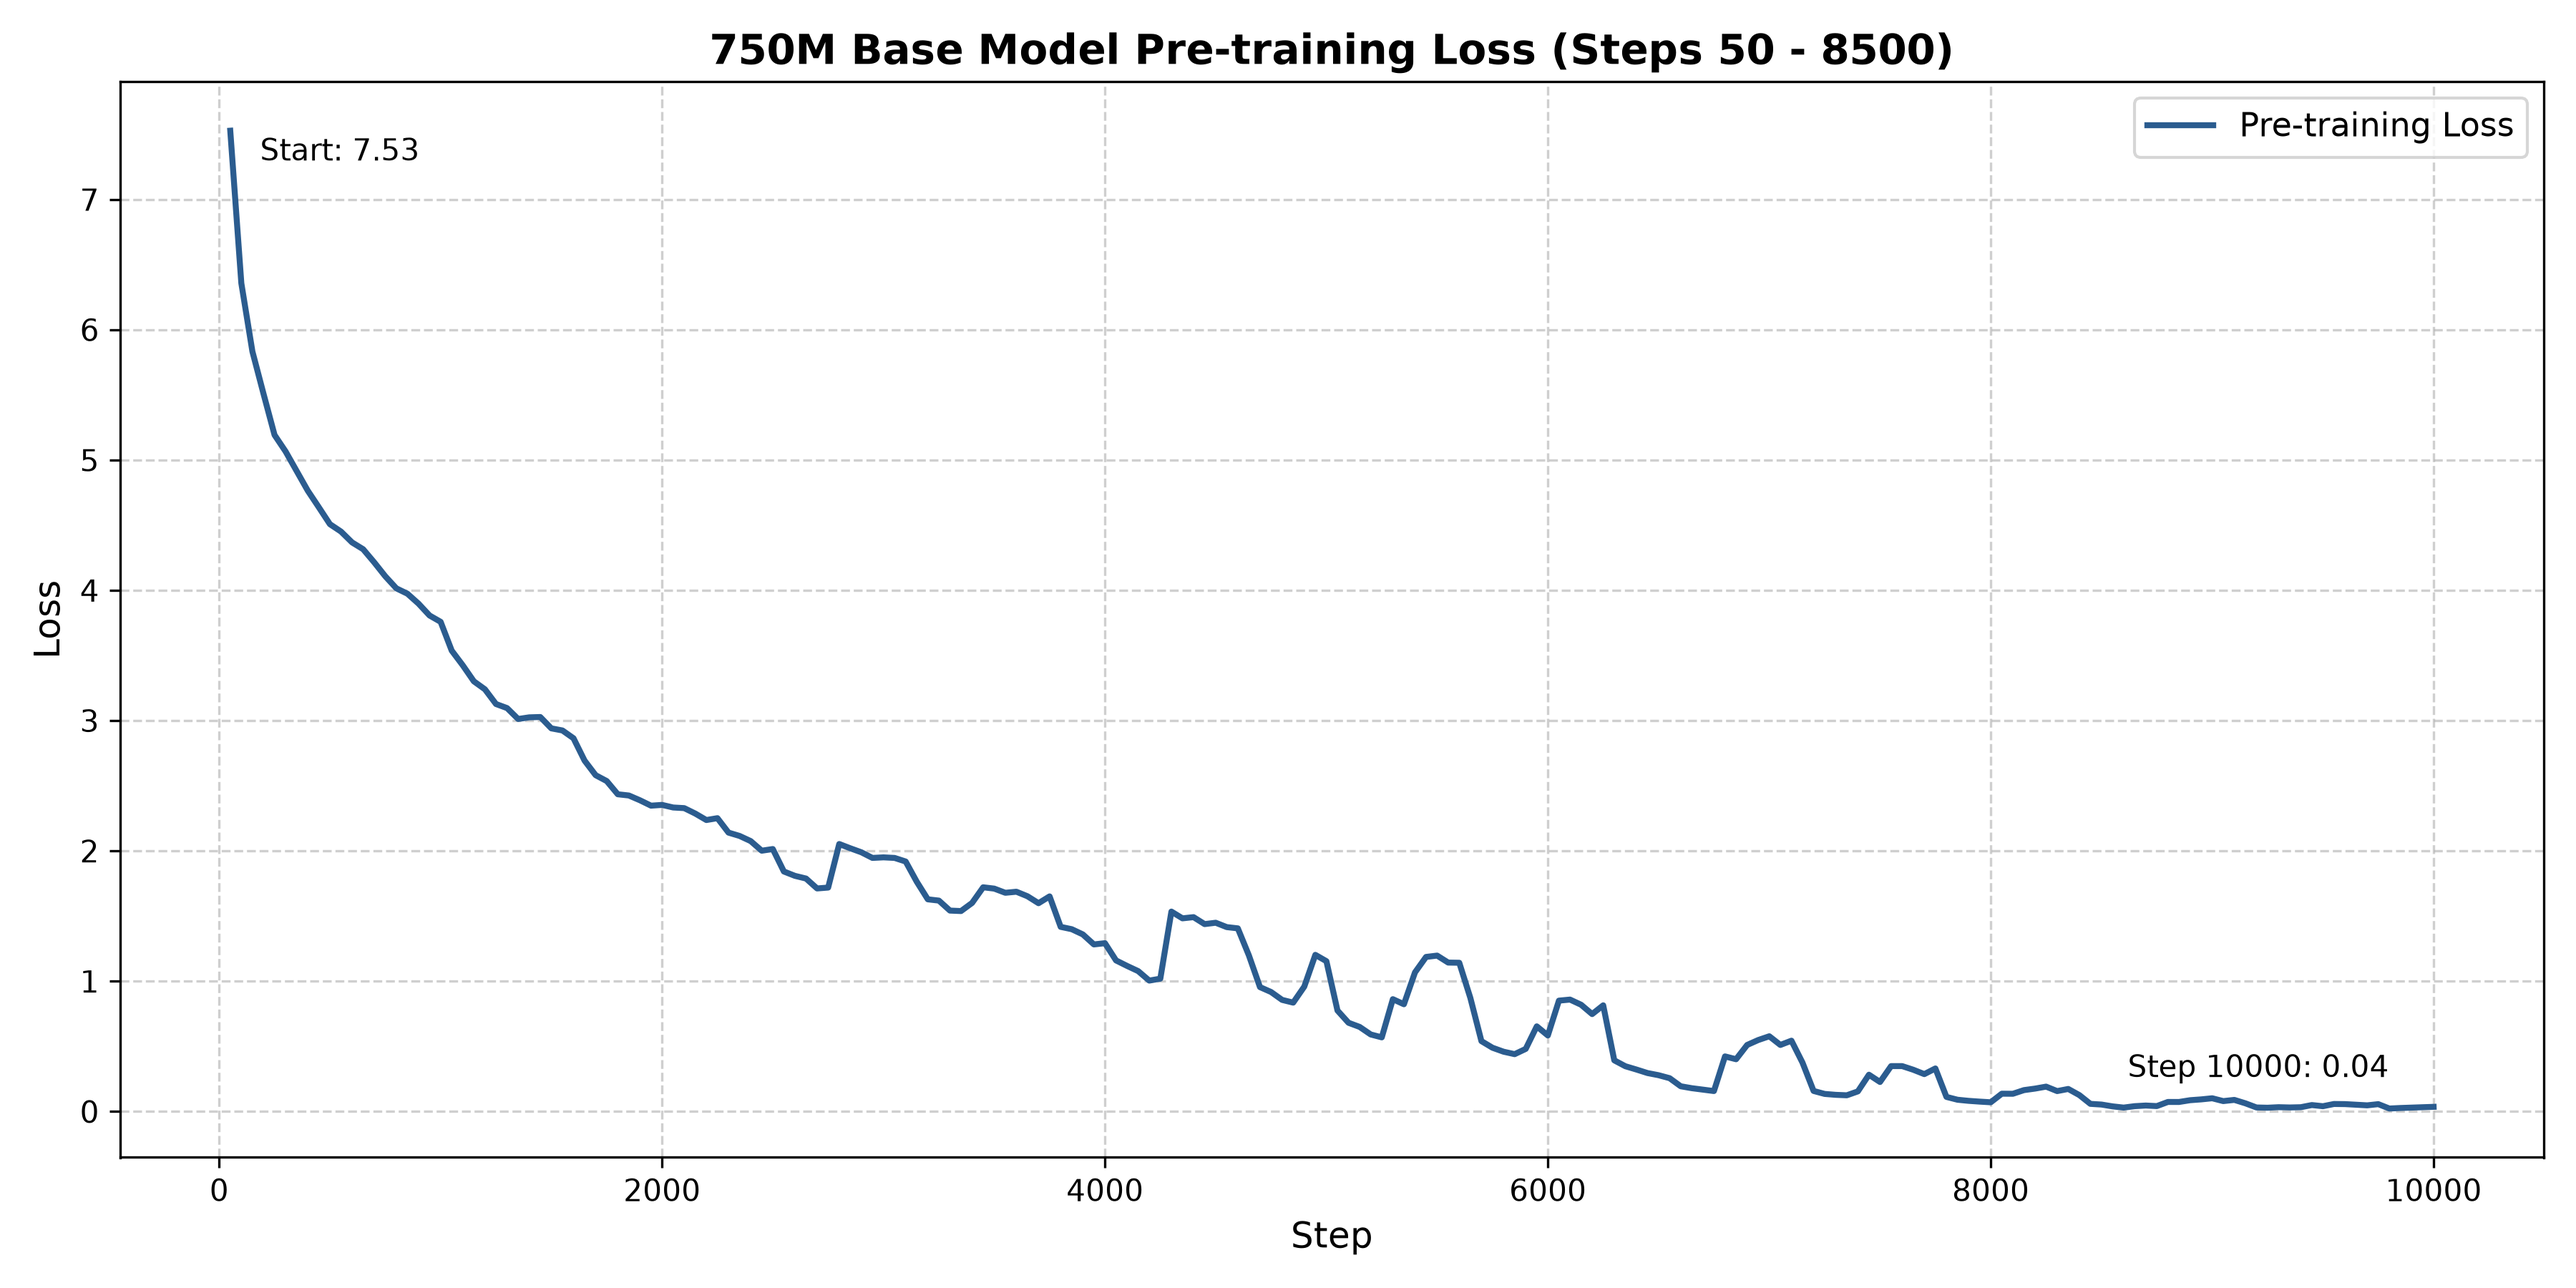
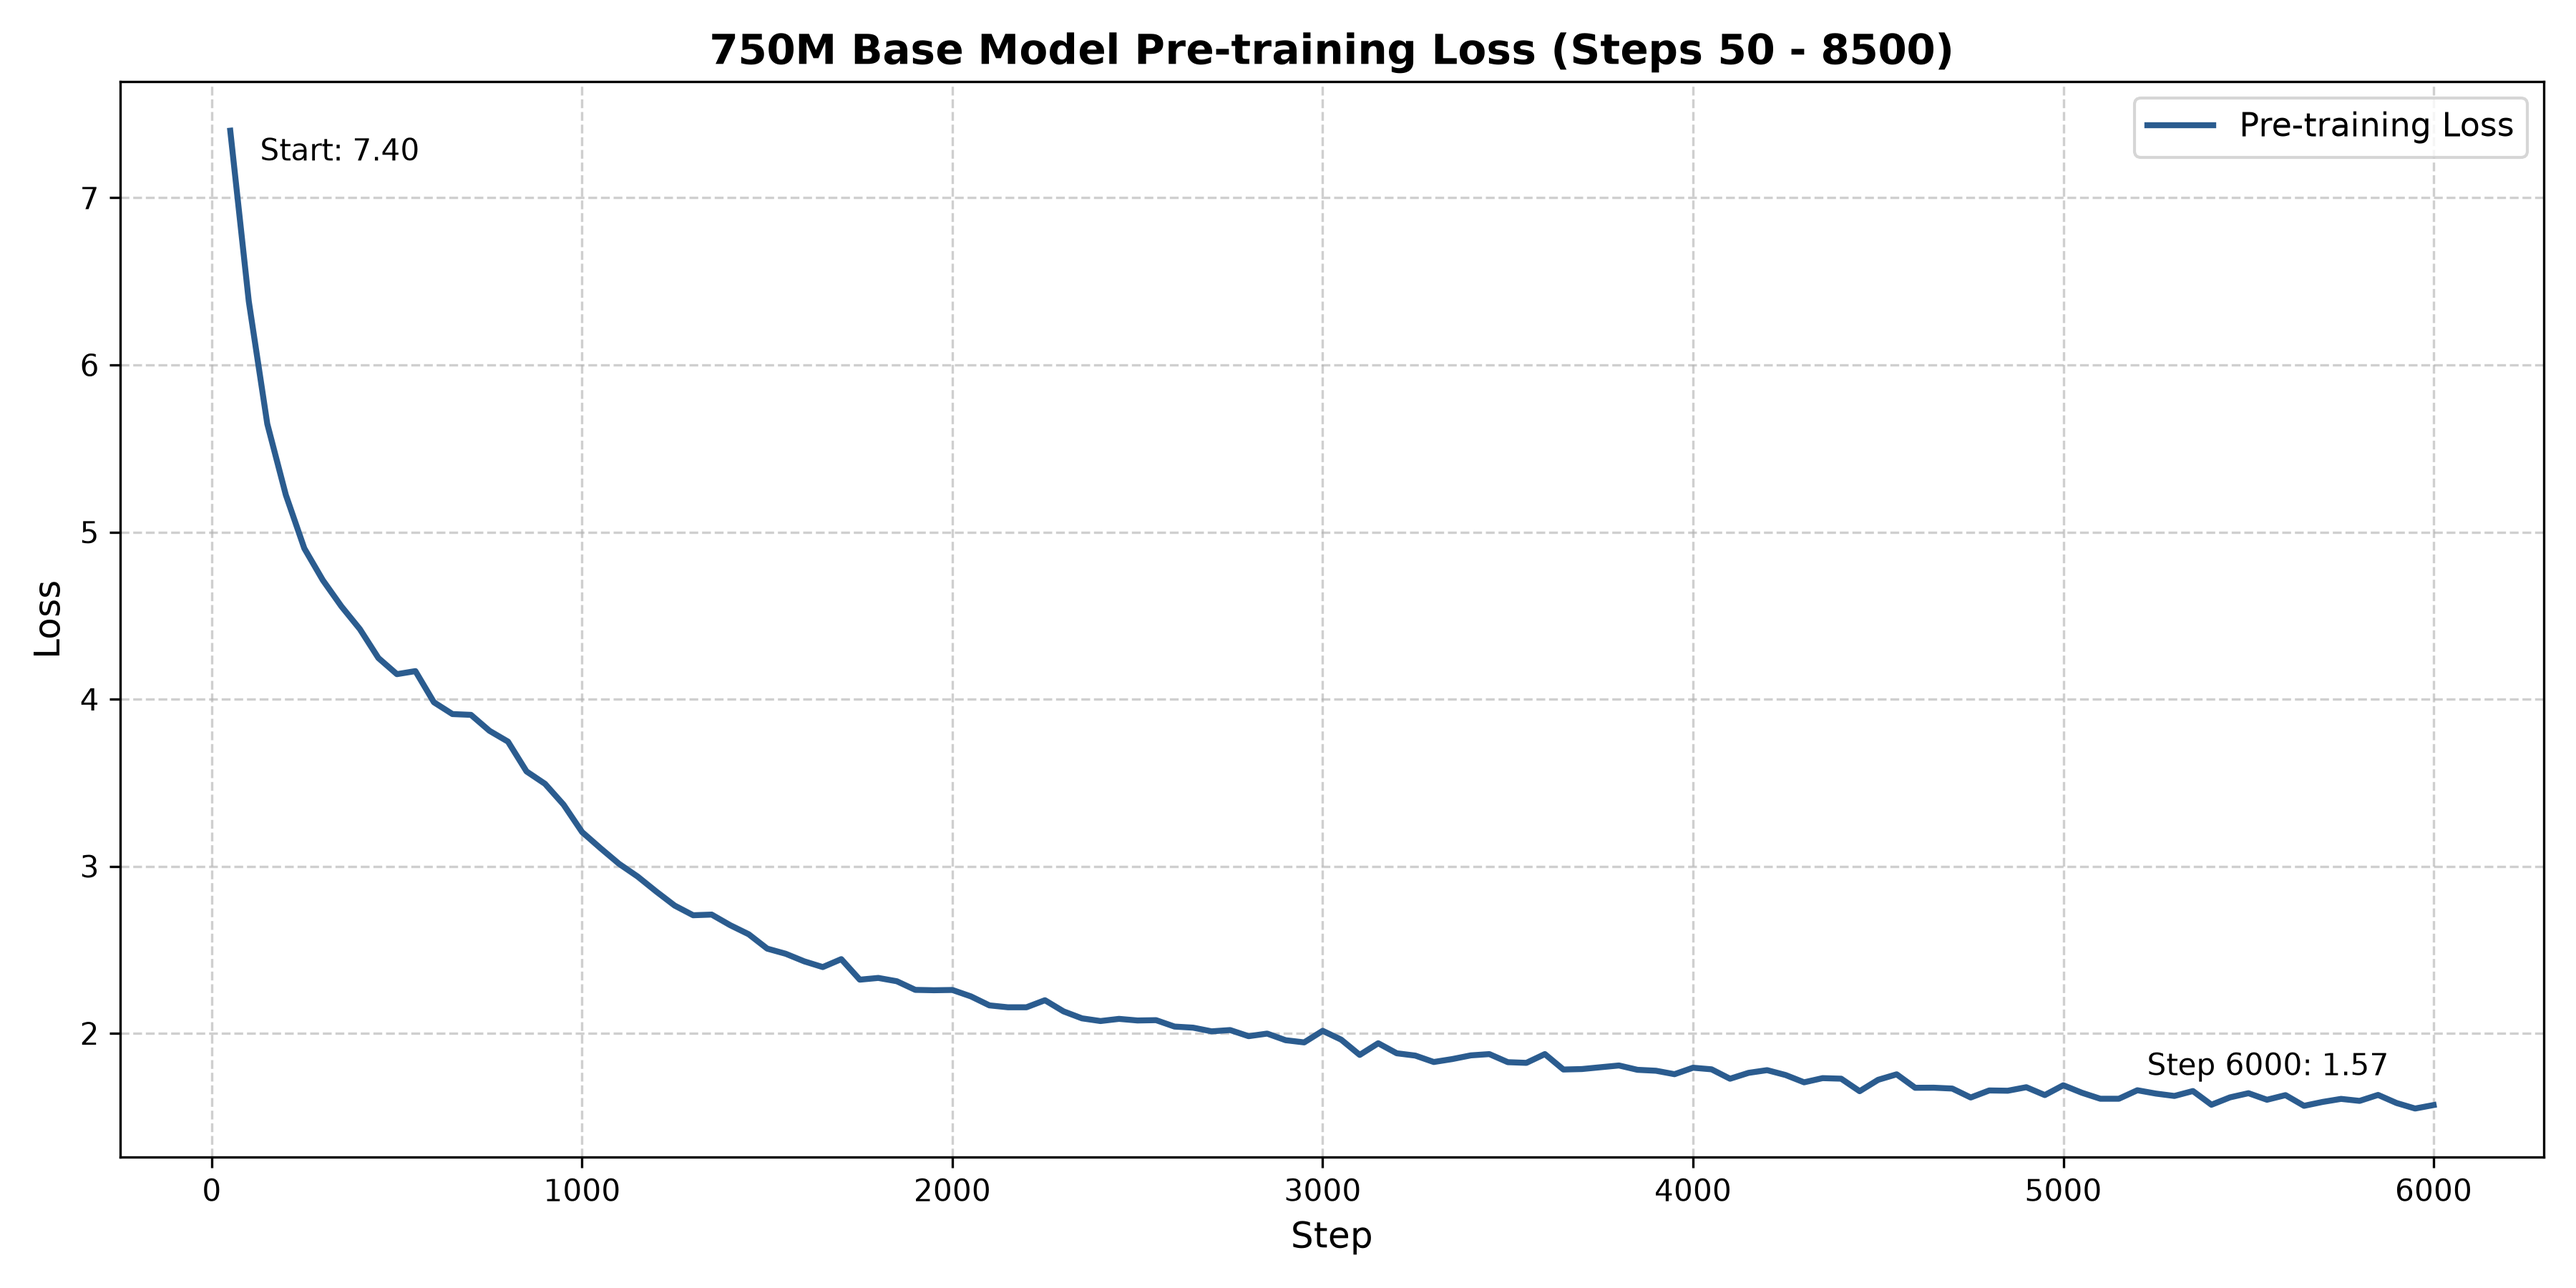
Added Model Testing script, Retrained the old model

diff --git a/scripts/02_train_base_model.py b/scripts/02_train_base_model.py
@@ -1,3 +1,4 @@
+
 import os
 import glob
 import torch
@@ -6,6 +7,7 @@ from transformers import (
     PreTrainedTokenizerFast,
     LlamaConfig,
     LlamaForCausalLM,
+    
     Trainer,
     TrainingArguments,
     DataCollatorForLanguageModeling,
@@ -22,24 +24,21 @@ def build_model():
         num_key_value_heads=4,
         max_position_embeddings=8192,
         bos_token_id=0,
+        
         eos_token_id=2,
         pad_token_id=1,
     )
 
-    print("Initializing model architecture...")
     model = LlamaForCausalLM(config)
-
     model.gradient_checkpointing_enable()
     return model
 
 
-def prepare_dataset(tokenizer, max_length):
+def prepare_dataset(tokenizer, max_length=4096):
     dataset = load_dataset(
-        "bigcode/the-stack-smol",
+        "codeparrot/codeparrot-clean",
         split="train",
-        data_dir="data/python",
         streaming=True,
-        token=True,
     )
 
     def tokenize_function(examples):
@@ -53,30 +52,28 @@ def prepare_dataset(tokenizer, max_length):
     tokenized_dataset = dataset.map(
         tokenize_function,
         batched=True,
-        remove_columns=["content", "repository_name", "path", "size", "license"],
     )
+
     return tokenized_dataset
 
 
 def main():
-    tokenizer_path = os.path.join(
-        os.path.dirname(__file__), "../models/base_tokenizer/code-bpe-tokenizer.json"
+    tokenizer_path = os.path.abspath(
+        os.path.join(
+            os.path.dirname(__file__),
+            "../models/base_tokenizer/code-bpe-tokenizer.json",
+        )
     )
     output_dir = os.path.abspath(
-        os.path.join(os.path.dirname(__file__), "../models/base_750m")
+        os.path.join(os.path.dirname(__file__), "../models/phase1_base_750m")
     )
 
-    print("Loading custom BPE tokenizer...")
     tokenizer = PreTrainedTokenizerFast(tokenizer_file=tokenizer_path)
     tokenizer.pad_token = "<|pad|>"
 
     model = build_model()
 
-    total_params = sum(p.numel() for p in model.parameters())
-    print(f"Total Model Parameters: {total_params / 1e6:.2f}M")
-
     train_dataset = prepare_dataset(tokenizer=tokenizer, max_length=4096)
-
     data_collator = DataCollatorForLanguageModeling(tokenizer=tokenizer, mlm=False)
 
     training_args = TrainingArguments(
@@ -107,15 +104,13 @@ def main():
 
     if checkpoints:
         latest_checkpoint = max(checkpoints, key=lambda x: int(x.split("-")[-1]))
-        print(f"Resuming training from {latest_checkpoint}...")
         trainer.train(resume_from_checkpoint=latest_checkpoint)
     else:
-        print("Starting fresh pre-training run...")
         trainer.train()
 
-    print("Training complete. Saving final base model...")
-    trainer.save_model(output_dir)
-    tokenizer.save_pretrained(output_dir)
+    final_model_path = os.path.join(output_dir, "final_model")
+    trainer.save_model(final_model_path)
+    tokenizer.save_pretrained(final_model_path)
 
 
 if __name__ == "__main__":

diff --git a/scripts/plot_loss.py b/scripts/plot_loss.py
@@ -3,7 +3,7 @@ import json
 import matplotlib.pyplot as plt
 
 
-def plot_training_loss(json_path, output_image_path):
+def plot_training_loss(json_path, output_image_path, step):
     # Load training history from trainer_state.json
     with open(json_path, "r") as f:
         data = json.load(f)
@@ -38,7 +38,7 @@ def plot_training_loss(json_path, output_image_path):
             ha="left",
         )
         plt.annotate(
-            f"Step 10000: {losses[-1]:.2f}",
+            f"Step {step}: {losses[-1]:.2f}",
             (steps[-1], losses[-1]),
             textcoords="offset points",
             xytext=(-15, 10),
@@ -51,9 +51,11 @@ def plot_training_loss(json_path, output_image_path):
 
 
 if __name__ == "__main__":
+    step = 6000
+    
     checkpoint_json = os.path.abspath(
-        "models/base_750m/checkpoint-10000/trainer_state.json"
+        f"models/phase1_base_750m/checkpoint-{step}/trainer_state.json"
     )
-    output_png = os.path.abspath("models/base_750m/loss_graph.png")
+    output_png = os.path.abspath("models/base_750m_loss_graph.png")
 
-    plot_training_loss(checkpoint_json, output_png)
+    plot_training_loss(checkpoint_json, output_png, step)

diff --git a/scripts/03_test_model.py b/scripts/03_test_model.py
@@ -1,0 +1,32 @@
+import torch
+from transformers import AutoModelForCausalLM, PreTrainedTokenizerFast
+
+model_path = "models\\phase1_base_750m\\checkpoint-6000"
+
+print("Loading trained 750M base model...")
+tokenizer = PreTrainedTokenizerFast.from_pretrained(model_path)
+model = AutoModelForCausalLM.from_pretrained(
+    model_path, dtype=torch.bfloat16, device_map="cuda"
+)
+
+prompt = """def binary_search(arr, target):"""
+inputs = tokenizer(prompt, return_tensors="pt").to("cuda")
+
+print(f"\nPrompt: {prompt}\nGenerating output...\n")
+
+with torch.no_grad():
+    output_tokens = model.generate(
+        **inputs,
+        max_new_tokens=128,
+        temperature=0.2,
+        top_p=0.95,
+        do_sample=True,
+        pad_token_id=tokenizer.pad_token_id,
+    )
+
+generated_text = tokenizer.decode(output_tokens[0], skip_special_tokens=True)
+
+clean_text = generated_text.replace("Ġ", " ").replace("Ċ", "\n")
+
+print("--- Generated Code ---")
+print(clean_text)
